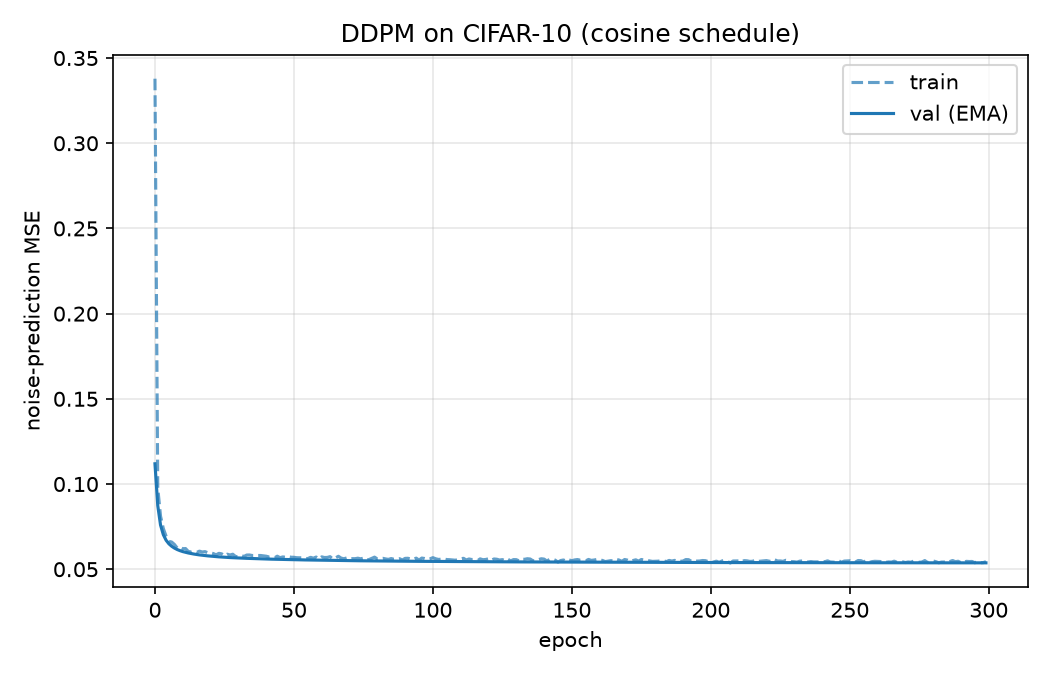
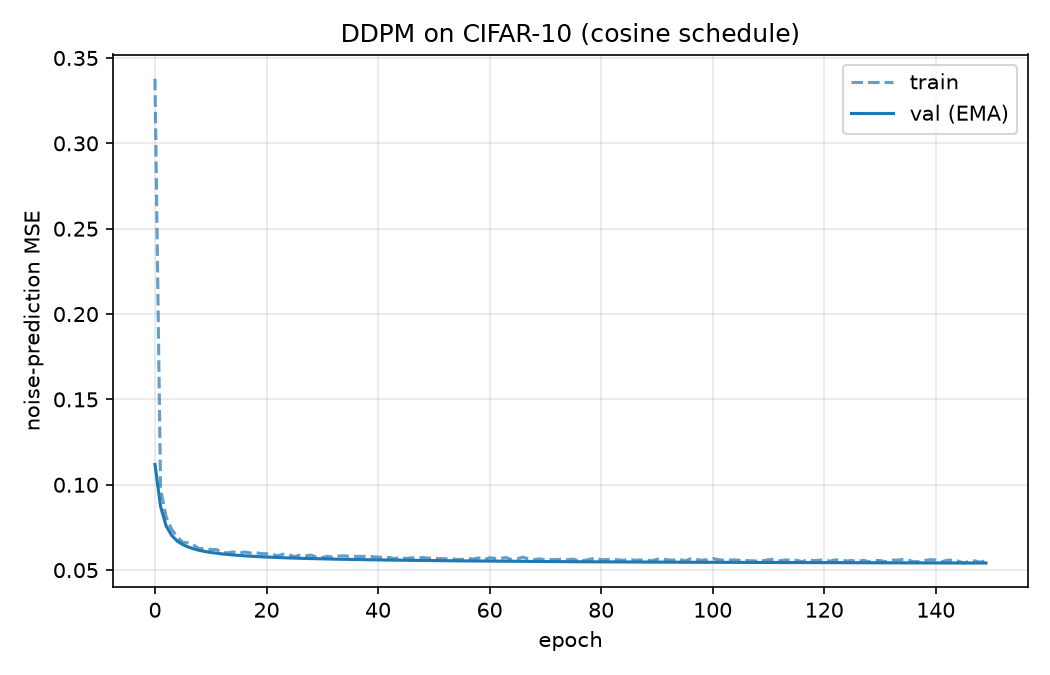
README: show the loss curve for the first 150 epochs

diff --git a/README.md b/README.md
@@ -60,7 +60,11 @@ In more detail:
 <p align="center">
   <img src="assets/loss_curve.png" width="55%" alt="Training and validation loss">
 </p>
-<p align="center"><sub>Training and validation loss (EMA weights) over 300 epochs.</sub></p>
+<p align="center"><sub>Training and validation loss (EMA weights) over the first 150 epochs.</sub></p>
+
+The noise-prediction loss levels off early, but this loss is a weak proxy for image quality: diffusion models keep
+improving their samples (and FID) long after the loss curve looks flat. For this reason training was run for a fixed
+300 epochs instead of being stopped early.
 
 ### Guidance weight
 
